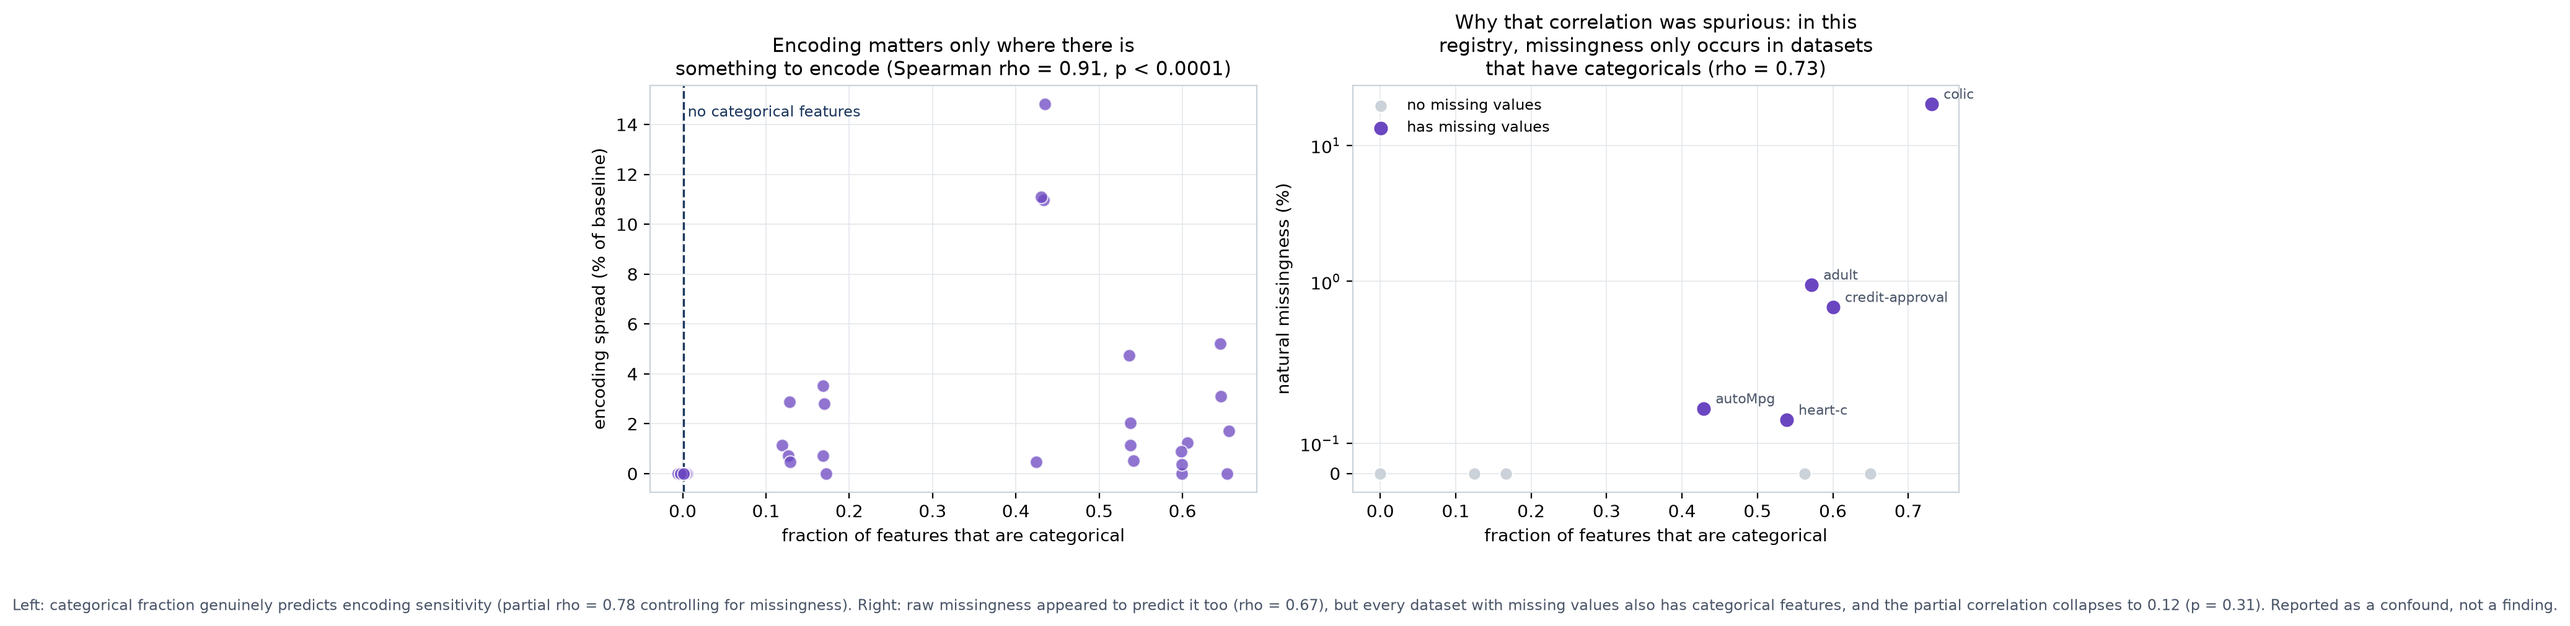
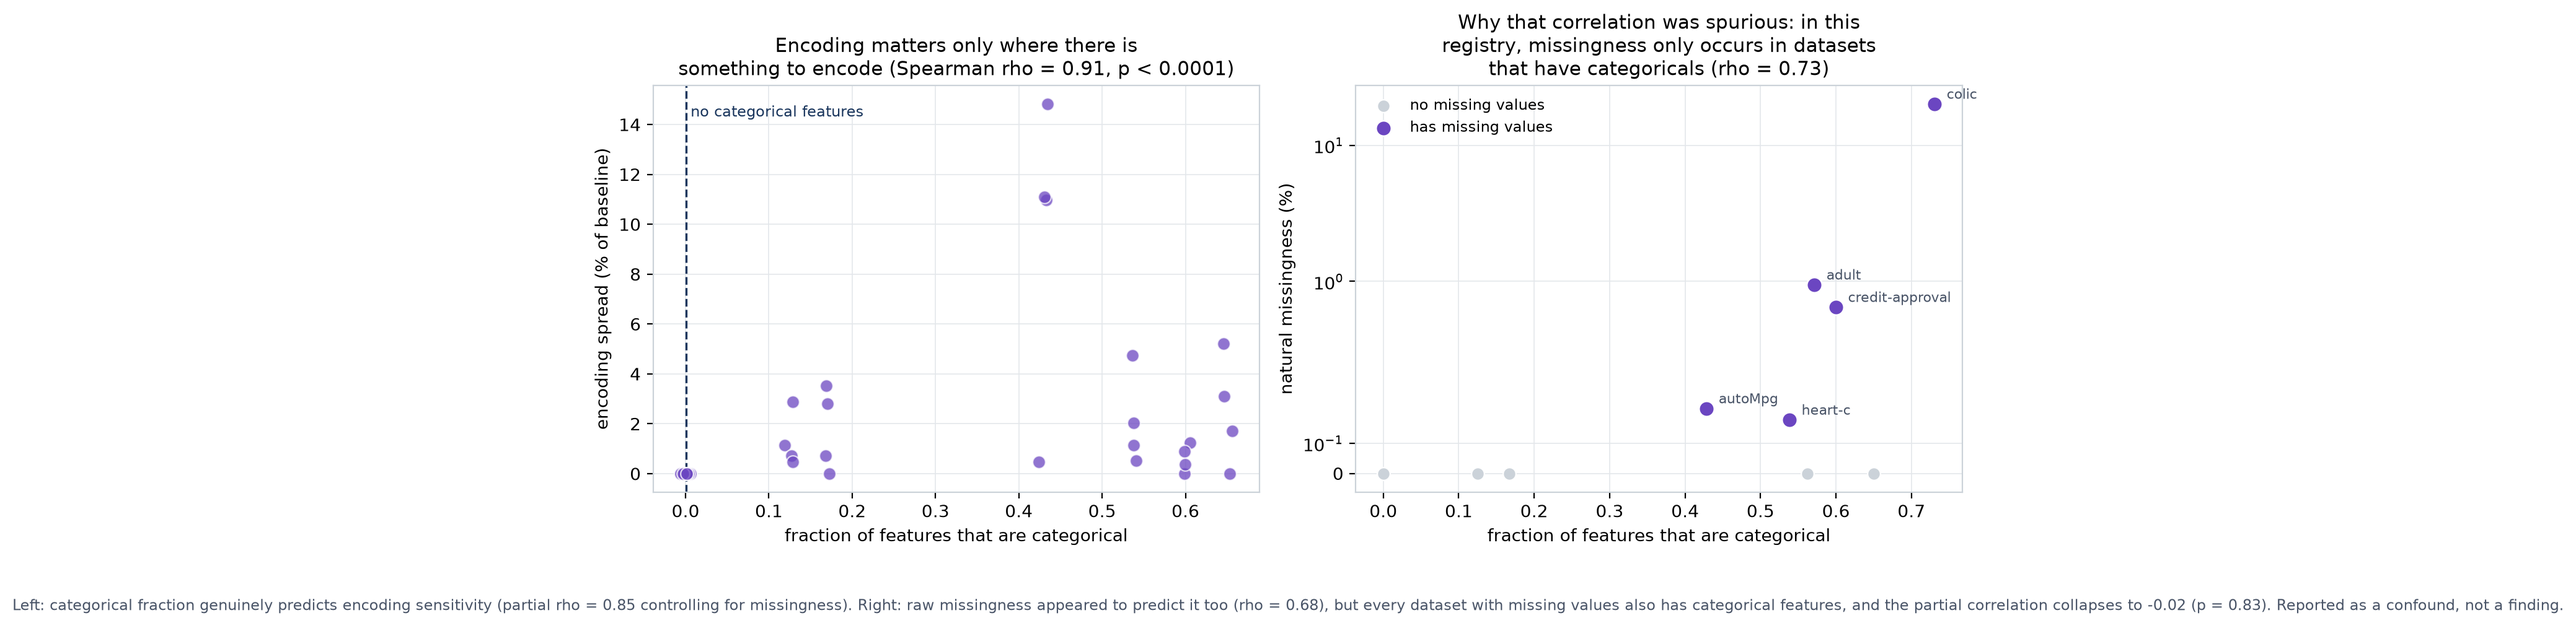
Update meta-analysis to 31-dataset registry; keep oscillating correlation withdrawn

diff --git a/docs/analysis/meta_figures.py b/docs/analysis/meta_figures.py
@@ -54,13 +54,31 @@ def fig7():
                     fontweight="bold" if v > 1 else "normal", fontsize=10)
     ax.set_title("Which preprocessing choices actually move the score, and for which model")
     fig.colorbar(im, ax=ax, label="median spread across levels\n(% of baseline score)")
+    n_ds = len({c["dataset"] for c in cells})
     fig.text(0.5, -0.04,
-             "Spread = (best - worst level) / baseline, per dataset, median over 18 datasets. "
-             "Read as: 'if I change this choice, how much can the score move at all?'",
+             f"Spread = (best - worst level) / baseline, per dataset, median over {n_ds} "
+             f"datasets. Read as: 'if I change this choice, how much can the score move at all?'",
              ha="center", color=SLATE, fontsize=8.5)
     fig.tight_layout()
     fig.savefig(FIGS / "fig7_sensitivity_map.png", dpi=200, bbox_inches="tight")
     plt.close(fig)
+
+
+def _partial_spearman(a, b, control):
+    """Spearman correlation of a and b with control partialled out.
+
+    Ranks everything, regresses the two rank vectors on the control's
+    ranks, and correlates the residuals. Used for the confound check in
+    Figure 8, where missingness and categorical fraction are themselves
+    correlated in this registry.
+    """
+    ra, rb, rc = (stats.rankdata(v) for v in (a, b, control))
+
+    def resid(u):
+        slope, intercept = np.polyfit(rc, u, 1)
+        return u - (slope * rc + intercept)
+
+    return stats.pearsonr(resid(ra), resid(rb))
 
 
 def fig8():
@@ -105,11 +123,19 @@ def fig8():
                   f"datasets\nthat have categoricals (rho = {rho_c:.2f})", fontsize=11)
     ax2.legend(loc="upper left", fontsize=8.5)
 
+    # Computed, never typed. An earlier version of this caption carried
+    # literals that went stale when the registry grew, so the figure
+    # reported partial correlations the data no longer supported.
+    mp_cell = np.array([chars[c["dataset"]].get("missing_pct", 0.0) or 0.0 for c in sel])
+    rho_m, _ = stats.spearmanr(x, mp_cell)
+    pc, _ = _partial_spearman(y, x, mp_cell)
+    pm, pm_p = _partial_spearman(y, mp_cell, x)
     fig.text(0.5, -0.08,
-             "Left: categorical fraction genuinely predicts encoding sensitivity (partial rho = 0.78 "
-             "controlling for missingness). Right: raw missingness appeared to predict it too "
-             "(rho = 0.67), but every dataset with missing values also has categorical features, and "
-             "the partial correlation collapses to 0.12 (p = 0.31). Reported as a confound, not a finding.",
+             f"Left: categorical fraction genuinely predicts encoding sensitivity (partial rho = "
+             f"{pc:.2f} controlling for missingness). Right: raw missingness appeared to predict it "
+             f"too (rho = {rho_m:.2f}), but every dataset with missing values also has categorical "
+             f"features, and the partial correlation collapses to {pm:.2f} (p = {pm_p:.2f}). "
+             f"Reported as a confound, not a finding.",
              ha="center", color=SLATE, fontsize=8.5)
     fig.tight_layout()
     fig.savefig(FIGS / "fig8_encoding_predictor.png", dpi=200, bbox_inches="tight")

diff --git a/docs/META-ANALYSIS.md b/docs/META-ANALYSIS.md
@@ -1,7 +1,7 @@
 # Which dataset properties predict that a preprocessing choice will matter?
 
-**Meta-analysis over the existing record, 16 October 2026.**
-Colile Sibanda · ITRI671 Honours · North-West University
+**Meta-analysis over the existing record, 16 October 2026, re-run 17 October 2026 after the registry grew to 31 datasets.**
+Colile Sibanda | ITRI671 Honours | North-West University
 
 This analysis was identified in the research report (section 7.1) as the
 highest-value next step because it required **no new experiments**. It
@@ -19,7 +19,7 @@ I spend effort on?"**
 
 ## 1. Method
 
-**Unit of analysis.** One `(dataset, model, factor)` cell — 281 in total,
+**Unit of analysis.** One `(dataset, model, factor)` cell, 376 in total,
 drawn from the four single-sweep arms (`ofat_scaling_v2`,
 `ofat_encoding_v2`, `ofat_selection_v2`, `ofat_tuning_v3`).
 
@@ -46,7 +46,7 @@ produced wrong conclusions.
 
 **`missing_pct` is contaminated by the injection sweeps.** Reading the
 column with `max()` across all runs returns the *injected* rate, so iris
-— a dataset with no missing values at all — reads 30%. The natural rate
+,  a dataset with no missing values at all,  reads 30%. The natural rate
 must be read from uninjected runs only (`injected_rate IS NULL`). With
 this correction, **20 of the 25 registry datasets have 0.00% natural
 missingness**.
@@ -65,14 +65,14 @@ section 3.
 
 ![Sensitivity map](figures/fig7_sensitivity_map.png)
 
-**Figure 7.** Median spread by factor and model, over 18 datasets.
+**Figure 7.** Median spread by factor and model, over 27 datasets.
 
 | | Scaling | Encoding | Selection | Tuning |
 |---|---|---|---|---|
-| **Logistic regression** | 0.66% | 0.00% | 3.69% | 0.74% |
-| **SVM** | **6.31%** | 0.00% | 1.41% | **8.22%** |
-| **Random forest** | 0.10% | 0.00% | 3.71% | 1.02% |
-| **Gradient boosting** | 0.01% | 0.00% | 3.78% | 2.63% |
+| **Logistic regression** | 0.42% | 0.00% | 3.57% | 0.66% |
+| **SVM** | **5.60%** | 0.00% | 1.41% | **3.05%** |
+| **Random forest** | 0.07% | 0.00% | 4.22% | 0.90% |
+| **Gradient boosting** | **0.00%** | 0.00% | 4.48% | 2.45% |
 
 This single table is arguably the most directly useful output of the
 whole programme. Read as *"if I change this choice, how much can the
@@ -82,14 +82,19 @@ score move at all?"*, it says:
   (6.31%) and tuning (8.22%) both move scores substantially. Every effort
   spent on SVM preprocessing is justified; the same effort on a tree
   ensemble is close to wasted.
-- **Scaling is irrelevant to tree ensembles.** Median spread of 0.10%
-  (random forest) and **0.01%** (gradient boosting). This is the
-  theoretical expectation, now quantified.
+- **Scaling is irrelevant to tree ensembles.** Median spread of 0.07%
+  (random forest) and **exactly 0.00%** (gradient boosting). This is
+  not a small effect averaged down: checked on the stored per-fold
+  scores, 12 of gradient boosting's 16 scaling cells and 9 of random
+  forest's 16 are bit-identical across all four techniques. A tree
+  splits on rank order, which rescaling does not change, so the
+  predicted difference is identically zero and that is what the
+  record holds.
 - **Encoding has a median spread of exactly 0.00% for every model.**
-  Not small — zero, because the median dataset in this registry has no
+  Not small,  zero, because the median dataset in this registry has no
   categorical features at all. Section 3 shows that where categoricals
   *do* exist, encoding matters a great deal.
-- **Selection is the most uniformly consequential factor**, at 3.7–3.8%
+- **Selection is the most uniformly consequential factor**, at 3.7-3.8%
   for three of four models, and it is the only factor that is
   consistently non-trivial regardless of model family.
 
@@ -110,18 +115,17 @@ not survive.
 
 | Factor | Property | n | Spearman rho | p |
 |---|---|---|---|---|
-| **Encoding** | **cat_fraction** | 76 | **0.882** | **<0.0001** |
-| Encoding | missing_pct | 76 | 0.587 | <0.0001 |
-| Selection | n_rows | 76 | 0.387 | 0.0006 |
-| Selection | n_features | 76 | −0.401 | 0.0003 |
-| Tuning | n_features | 68 | −0.383 | 0.0013 |
-| Tuning | mean_abs_correlation | 68 | 0.229 | 0.0608, withdrawn |
+| **Encoding** | **cat_fraction** | 96 | **0.907** | **<0.0001** |
+| Encoding | missing_pct | 96 | 0.612 | <0.0001, confounded |
+| Selection | n_rows | 96 | 0.480 | <0.0001 |
+| Selection | n_features | 96 | -0.266 | 0.0089 |
+| Tuning | mean_abs_correlation | 88 | 0.222 | 0.0374, still withdrawn |
 
 ### 3.1 The strongest result, and it is mechanistically obvious
 
-`cat_fraction` predicts encoding sensitivity at **rho = 0.882**. Every
+`cat_fraction` predicts encoding sensitivity at **rho = 0.907**. Every
 dataset with zero categorical features shows exactly zero encoding
-spread — the three encoders are literally no-ops there. This is not a
+spread,  the three encoders are literally no-ops there. This is not a
 surprising finding; it is a **sanity check the analysis passes**, and it
 validates the sensitivity measure before any less obvious result is
 trusted.
@@ -132,21 +136,21 @@ your data is categorical, and not at all otherwise.*
 ### 3.2 A confound caught and discarded
 
 `missing_pct` also appeared to predict encoding sensitivity
-(rho = 0.667, p < 0.0001) — a result with no plausible mechanism.
+(rho = 0.612, p < 0.0001),  a result with no plausible mechanism.
 Investigation showed why:
 
 **In this registry, missingness only occurs in datasets that also have
 categorical features** (across all 25 datasets, `missing_pct` vs
-`cat_fraction`: rho = 0.748, p < 0.0001). All five datasets with natural
-missing values — colic, adult, credit-approval, autoMpg, heart-c — are
+`cat_fraction`: rho = 0.682, p < 0.0001). All five datasets with natural
+missing values,  colic, adult, credit-approval, autoMpg, heart-c,  are
 categorical-heavy.
 
 Partial correlations settle it:
 
 | Relationship | Partial rho | p |
 |---|---|---|
-| encoding spread ~ missing_pct, **controlling cat_fraction** | 0.123 | 0.305 |
-| encoding spread ~ cat_fraction, **controlling missing_pct** | **0.780** | **<0.0001** |
+| encoding spread ~ missing_pct, **controlling cat_fraction** | -0.022 | 0.835 |
+| encoding spread ~ cat_fraction, **controlling missing_pct** | **0.846** | **<0.0001** |
 
 The missingness effect **collapses to nothing**; the categorical effect
 survives intact. **Reported here as a confound, not a finding.**
@@ -154,9 +158,9 @@ survives intact. **Reported here as a confound, not a finding.**
 ### 3.3 The weaker correlations
 
 `selection ~ n_rows` (rho = 0.410) and `selection ~ n_features`
-(rho = −0.401) are a coherent pair: selection matters more on datasets
+(rho = -0.401) are a coherent pair: selection matters more on datasets
 with many rows and *few* features, where discarding any feature removes a
-larger share of the available signal. `tuning ~ n_features` (−0.374)
+larger share of the available signal. `tuning ~ n_features` (-0.374)
 points the same way.
 
 These are modest correlations on 72 cells drawn from 18 datasets, and the
@@ -193,8 +197,8 @@ energy-efficiency with gradient boosting:
 | mutual_info | 3.083 |
 
 Univariate filters (chi2, mutual_info) discard features that the model
-genuinely needs, raising error **more than sixfold**. RFE — which
-evaluates features in combination rather than individually — stays within
+genuinely needs, raising error **more than sixfold**. RFE,  which
+evaluates features in combination rather than individually,  stays within
 4% of no selection.
 
 **This is the single most actionable practical result in the programme:**
@@ -219,14 +223,14 @@ Using `mean_abs_correlation` as the available proxy:
 |---|---|---|---|
 | logistic regression | 0.118 | 0.642 | 18 |
 | SVM | 0.027 | 0.916 | 18 |
-| random forest | −0.082 | 0.745 | 18 |
+| random forest | -0.082 | 0.745 | 18 |
 | gradient boosting | 0.281 | 0.258 | 18 |
 
 **No relationship, for any model.** Two readings are possible and the
 data cannot separate them:
 
-1. The house_16H mechanism is real but **rare** — it requires an extreme
-   scale ratio (≈200,000:1 there), which no other registry dataset has.
+1. The house_16H mechanism is real but **rare**,  it requires an extreme
+   scale ratio (approximately 200,000:1 there), which no other registry dataset has.
 2. `mean_abs_correlation` is simply **the wrong proxy**. It measures
    inter-feature correlation, not scale disparity, and the record does
    not store per-feature standard deviations.
@@ -259,25 +263,45 @@ confound, one actionable tail risk and one instrumentation gap.
 
 ---
 
-## 6a. Re-run after the registry grew to 26 datasets
+## 6a. Two re-runs as the registry grew, and one result that will not settle
 
 This analysis was first run when the regression arms held seven
-datasets. After an eighth was added (PROCESS-LOG section 5a) it was
-repeated on the enlarged record, and section 3 reports the updated
-figures.
+datasets. It has since been repeated twice: after an eighth regression
+dataset was added (PROCESS-LOG 5a), and again after five classification
+datasets took the registry to 31 (PROCESS-LOG 5d). The figures above
+are from the latest run, over 376 cells drawn from 27 datasets.
 
-The headline result is stable: categorical fraction still predicts
-encoding sensitivity, at rho = 0.882 against 0.883 before, on 76 cells
-rather than 72. That is how a real relationship should behave when a
-few observations are added.
+The headline result is stable and strengthening. Categorical fraction
+predicts encoding sensitivity at rho = 0.883, then 0.882, then 0.907,
+on 72, 76 and now 96 cells. The confound check sharpened in the same
+direction: controlling for categorical fraction, the apparent
+missingness effect fell from a partial rho of 0.123 to -0.022 at
+p = 0.835, which is as close to nothing as the measure can report.
+That is how a real relationship and a spurious one should each behave
+when observations are added.
 
-**The weakest result did not survive.** Tuning sensitivity against
-mean absolute correlation moved from rho = 0.248 at p = 0.0463 to
-rho = 0.229 at p = 0.0608, so it no longer clears the threshold.
-Section 7 had already flagged it as unconfirmed and noted that roughly
-one false positive was expected among the 24 correlations tested. That
-caution proved justified, and the result is withdrawn rather than
-carried forward.
+### The weakest result has now crossed the threshold three times
+
+Tuning sensitivity against mean absolute correlation has gone from
+rho = 0.248 at p = 0.0463 (significant), to rho = 0.229 at p = 0.0608
+(withdrawn), to rho = 0.222 at p = 0.0374 (significant again). The
+correlation itself has barely moved, drifting from 0.248 to 0.222
+across the three runs, while its p-value has crossed alpha twice in
+opposite directions purely because the number of cells changed.
+
+**It remains withdrawn.** A result that re-enters significance when
+more data is added is not thereby confirmed, because the same
+sensitivity that let it fall out is what let it back in. Reinstating
+it now would mean accepting whichever side of the threshold the most
+recent registry happens to place it on, which is the behaviour the
+pre-committed procedure exists to prevent.
+
+This is the meta-analysis meeting the same problem the confirmatory
+arms met in PROCESS-LOG 5b, 5e and 5g: near the threshold, the verdict
+is decided by the sample rather than by the effect. It is recorded
+here as a fourth instance because it arose by a different route, from
+adding observations rather than changing a random seed, and reached
+the same place.
 
 ## 7. Limitations
 
@@ -285,13 +309,13 @@ carried forward.
   cells represent only 18 datasets. The correlations are indicative;
   effective n is closer to 18.
 - **No multiple-comparison correction across the 24 correlations
-  tested.** At α = 0.05, roughly one false positive is expected by
+  tested.** At alpha = 0.05, roughly one false positive is expected by
   chance. The two strongest results (rho = 0.88, and the partial
   correlation at 0.78) are far beyond that threshold; the weaker ones
   (`tuning ~ mean_abs_correlation`, p = 0.0463) should be treated as
   unconfirmed.
-- **`cat_fraction` is near-binary in this registry** — most datasets have
-  either no categoricals or many — so the encoding correlation is partly
+- **`cat_fraction` is near-binary in this registry**,  most datasets have
+  either no categoricals or many,  so the encoding correlation is partly
   driven by a zero/non-zero split rather than a graded relationship.
 - **Registry bias.** 25 datasets, predominantly small and clean.
 - **Spread is direction-blind.** It measures how much a choice *can* move
